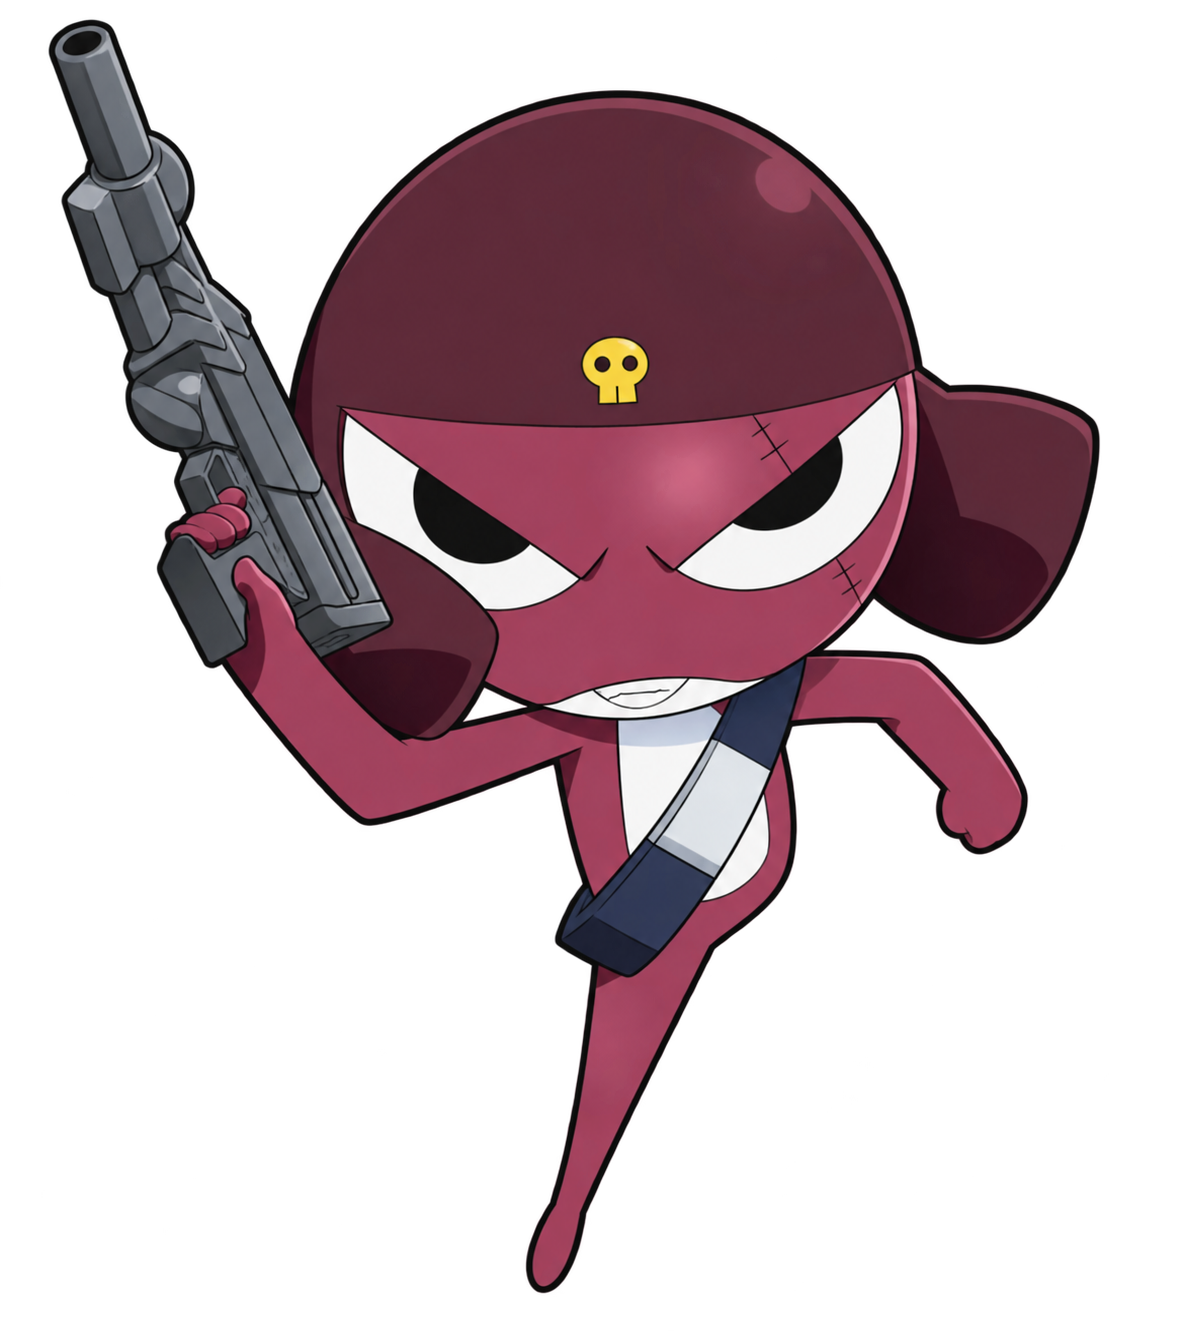
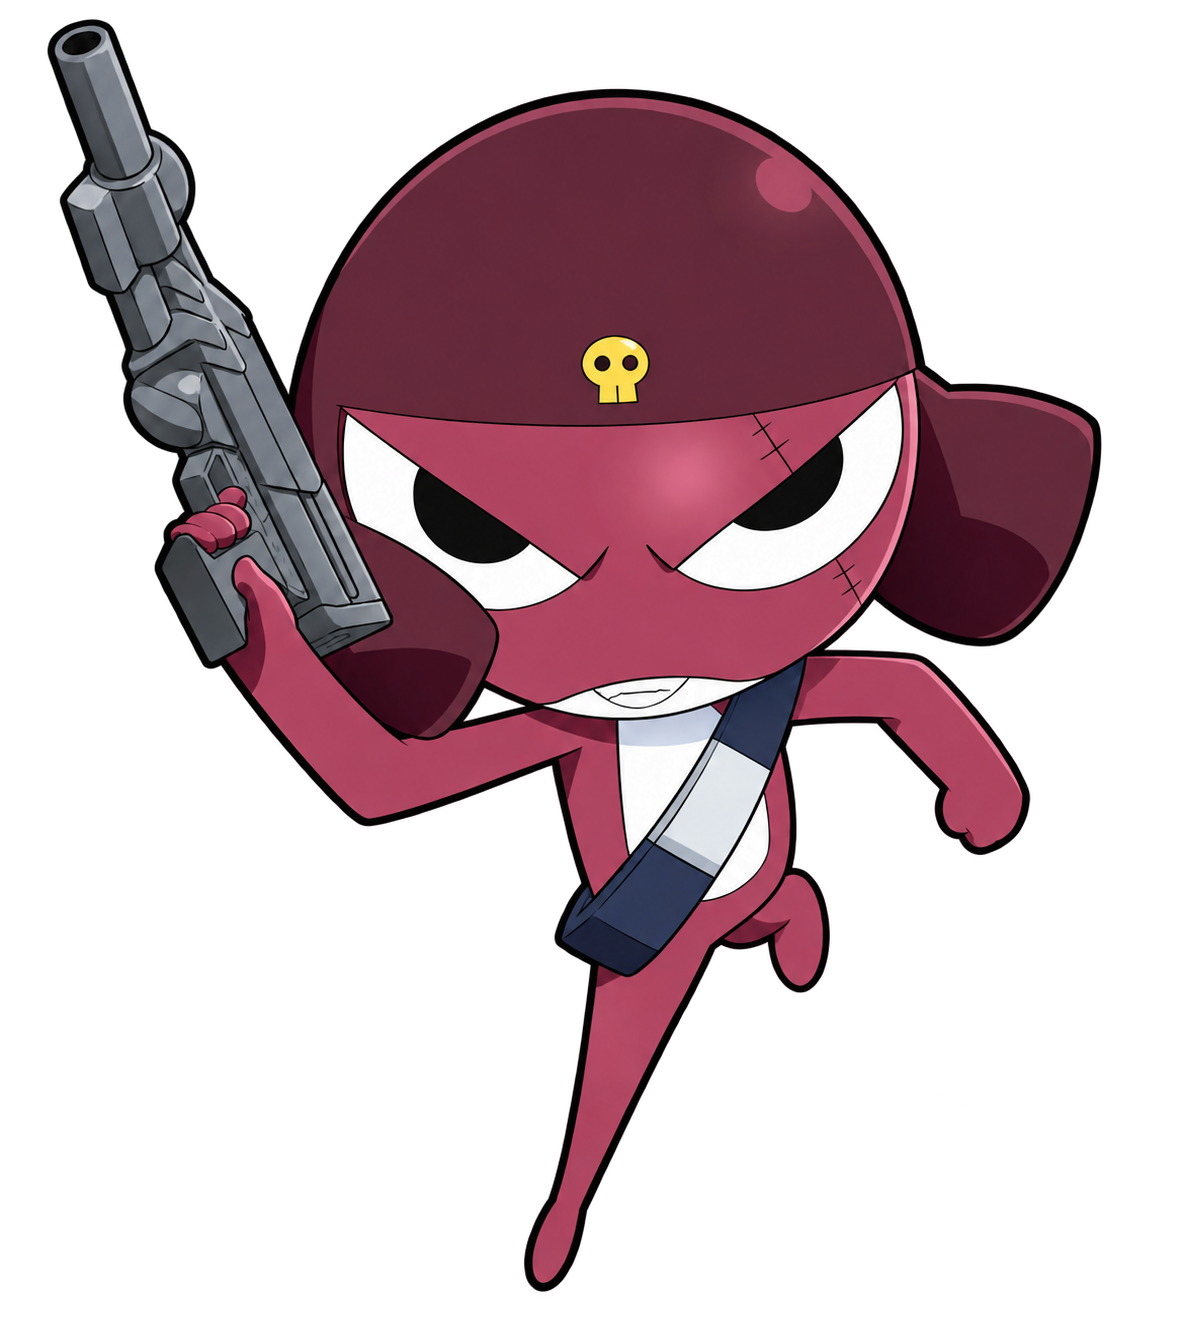
기로로와 타마마의 누락된 다리 복원 및 가림 수정

diff --git a/styles.css b/styles.css
@@ -71,8 +71,8 @@ main { height: 100svh; height: 100dvh; padding: 48px 28px 74px; overflow: hidden
 .character-label { position: absolute; left: 50%; bottom: 4%; translate: -50%; border: 1.5px solid var(--ink); background: var(--paper); padding: 4px 11px; box-shadow: 2px 2px var(--ink); border-radius: 3px; font-size: 10px; font-weight: 800; opacity: 0; transition: opacity .2s; white-space: nowrap; }
 .character-hit:hover .character-label, .character-hit:focus-visible .character-label { opacity: 1; }
 .character-keroro { left: 49%; top: 35%; width: min(62cqw, 80cqh); z-index: 3; --depth: .6; }
-.character-giroro { left: 17%; top: 48%; width: min(43cqw, 67cqh); --depth: 1.2; }
-.character-tamama { left: 83%; top: 43%; width: min(44cqw, 65cqh); --depth: .9; }
+.character-giroro { left: 17%; top: 48%; width: min(43cqw, 67cqh); z-index: 8; --depth: 1.2; }
+.character-tamama { left: 83%; top: 43%; width: min(44cqw, 65cqh); z-index: 7; --depth: .9; }
 .character-dororo { left: 43%; top: 81%; width: min(38cqw, 54cqh); z-index: 6; --depth: 1.5; }
 .character-kururu { left: 80%; top: 80%; width: min(41cqw, 58cqh); z-index: 6; --depth: 1.1; }
 .title-lockup { position: absolute; left: 50%; top: 57%; width: min(32cqw, 45cqh); translate: -50% -50%; z-index: 9; will-change: transform; pointer-events: none; }

diff --git a/docs/assets.md b/docs/assets.md
@@ -25,3 +25,13 @@ Strict image extraction and local inpainting, not a new illustration. The poster
 `title.png`는 최초 요청 당시 제작한 일본어 버전으로 보관하며, 현재 페이지에서는 참조하거나 로드하지 않는다.
 
 모니터와 단순 장식은 CSS/SVG로 제작했다. 이미지 생성 출력은 원본 포스터의 픽셀을 직접 복사한 파일이 아니라 복원된 에셋이며, 생성되지 않은 원본 포스터 자체는 수정하지 않았다.
+
+## 기로로·타마마 다리 복원
+
+2026-10-14 추가 수정. 웹 배치의 잘림이 아니라 두 PNG 자체에서 두 번째 다리가 누락된 것이 원인이었다. 내장 image_gen 편집 도구에 현재 PNG를 편집 대상으로, 원본 포스터를 자세 참조로 전달했다. 기존 얼굴·팔·소품·보이는 다리는 유지하고, 골반 뒤에 접힌 두 번째 다리와 둥근 발을 추가했다. 수정본으로 `assets/giroro.png`, `assets/tamama.png`를 교체했다.
+
+프롬프트의 핵심 제약: “Make a surgical local anatomy repair, not a redesign. Restore only the missing second leg and complete rounded foot. Preserve the existing head, expression, proportions, both arms, existing leg, pose, colors, linework, scale and framing. Keep the rear leg tucked close to the body. Exactly two arms and two legs, both feet visible. True alpha transparency, no background or decorations.”
+
+기로로는 기존 길게 내려간 다리를 유지하고 몸 오른쪽 뒤에 짧게 접힌 다리를 복원했다. 타마마는 앞으로 내려간 두 손과 오른쪽으로 뻗은 다리를 유지하고 손 뒤에서 보이는 짧은 다리를 복원했다. 복원한 발을 포함한 모든 부위가 이미지 캔버스 안에 들어간 것을 시각적으로 확인했다.
+
+완성 화면에서 타마마의 하체가 쿠루루에, 기로로의 긴 다리 끝이 모니터에 가려지는 겹침도 확인했다. 타마마는 쿠루루 앞에, 기로로는 모니터 앞에 그리도록 레이어 순서를 조정했다. 캐릭터 크기와 위치, 등장 연출은 유지했다.

diff --git a/docs/verification.md b/docs/verification.md
@@ -33,3 +33,9 @@
 - `/tmp/keroro-punch-qa/`에 확대된 완성 장면, 돌진 중간 프레임, 모바일과 가로 화면 스크린샷 저장. 데스크톱에서 타이틀을 위로 옮겨 도로로의 눈을 드러냄.
 
 캐릭터 PNG 원본은 변경하지 않았고, CSS 배치와 애니메이션만 변경했다.
+
+## 기로로·타마마 다리 수정
+
+두 PNG 자체의 두 번째 다리 누락을 확인해 내장 이미지 편집으로 복원했다. 각각 1182×1331, 1372×1147 크기의 alpha 포함 PNG로 저장했다. 이미지 자체에서 두 팔·두 다리와 발 끝을 시각적으로 확인했다. 웹에서는 타마마를 쿠루루 앞에, 기로로를 모니터 앞에 배치하여 다리가 가려지지 않도록 했다.
+
+에셋 교체 후 정적 빌드와 브라우저 재생·클릭·모바일·동작 줄이기 테스트를 통과했다. `/tmp/keroro-legs-qa/`에 확인 화면을 저장했다. 캐릭터의 기존 자세와 크기는 유지했다.
